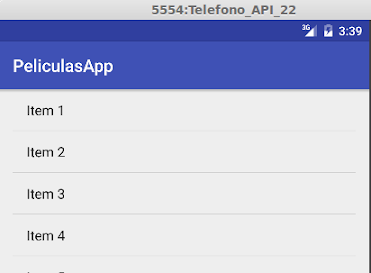
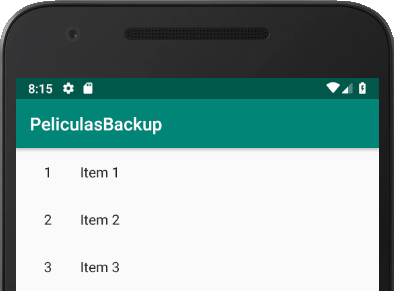
Updating master page

diff --git a/documentation/masterDetailMaster.md b/documentation/masterDetailMaster.md
@@ -39,7 +39,27 @@ De movida podemos ejecutar la aplicación gracias a todo el código [boilerplate
 
 ![peliculas list](../images/peliculasList.png)
 
-La lista se define en la `activity_peliculas_list.xml`:
+Solo hay que corregir un pequeño detalle, en la clase `PeliculaDetailFragment.kt`, dentro del método onCreate:
+
+```kt
+override fun onCreate(savedInstanceState: Bundle?) {
+    super.onCreate(savedInstanceState)
+
+    arguments?.let {
+        if (it.containsKey(ARG_ITEM_ID)) {
+            // así está
+            // item = DummyContent.ITEM_MAP[it.getString(ARG_ITEM_ID)]
+            // así la cambiamos
+            item = DummyContent.ITEM_MAP[it.getString(ARG_ITEM_ID)!!]
+            activity?.toolbar_layout?.title = item?.content
+        }
+    }
+}
+```
+
+Después explicaremos en detalle cómo trabaja la vista.
+
+La lista de ítems se define en la `activity_pelicula_list.xml`:
 
 ```xml
 <android.support.design.widget.CoordinatorLayout ...>
@@ -53,43 +73,64 @@ La lista se define en la `activity_peliculas_list.xml`:
     </FrameLayout>
 ```
 
-_activity_peliculas_list.xml_
+El archivo de include `pelicula_list.xml` contiene un **RecyclerView**:
 
-El layout default es list_content, que tiene una [ListView](https://developer.android.com/guide/topics/ui/layout/listview.html).
-
-¿Dónde se llena la lista de elementos de la ListView? En el Fragment de la lista de películas, que extiende especialmente de ListFragment:
-
-```kt
-class PeliculaListFragment : ListFragment() {
+```xml
+<?xml version="1.0" encoding="utf-8"?>
+<android.support.v7.widget.RecyclerView xmlns:android="http://schemas.android.com/apk/res/android"
+                                        xmlns:app="http://schemas.android.com/apk/res-auto"
+                                        xmlns:tools="http://schemas.android.com/tools"
+                                        android:id="@+id/pelicula_list"
+                                        android:name="com.example.fernando.peliculasbackup.PeliculaListFragment"
+                                        android:layout_width="match_parent"
+                                        android:layout_height="match_parent"
+                                        android:layout_marginLeft="16dp"
+                                        android:layout_marginRight="16dp"
+                                        app:layoutManager="LinearLayoutManager"
+                                        tools:context=".PeliculaListActivity"
+                                        tools:listitem="@layout/pelicula_list_content"/>
 ```
 
-Y específicamente en el método onCreate:
+Como vemos, este container define un **list item** cuyo contenido define una [ListView](https://developer.android.com/guide/topics/ui/layout/listview.html) en un archivo aparte: pelicula_list_content.xml. Sí, demasiadas indirecciones para un simple master/detail.
+
+¿Dónde se llena la lista de elementos de la ListView? En la activity de la lista de películas:
 
 ```kt
-override fun onCreate(savedInstanceState: Bundle) {
-    val peliculas = RepoPeliculas.instance.getPeliculas(null, 10)
-    super.onCreate(savedInstanceState)
-    listAdapter = new ArrayAdapter<DummyContent.DummyItem>(
-        getActivity(),
-        android.R.layout.simple_list_item_activated_1,
-        android.R.id.text1,
-        DummyContent.ITEMS)
+class PeliculaListActivity : AppCompatActivity() {
+```
+
+Y específicamente en el método onCreate, se llama al método setupRecyclerView que configura nuestro container donde se encuentra la list view antes mencionada:
+
+```kt
+private fun setupRecyclerView(recyclerView: RecyclerView) {
+    recyclerView.adapter = SimpleItemRecyclerViewAdapter(this, DummyContent.ITEMS, twoPane)
 }
 ```
+
+La clase SimpleItemRecyclerViewAdapter será la encargada de responder ante eventos de usuario como el click que permitirá navegar hacia la vista de detalle.
 
 Reemplazamos entonces DummyContents.ITEMS por una lista de películas de un Repositorio creado para la ocasión:
 
 ```kt
-override fun onCreate(savedInstanceState: Bundle) {
-    val peliculas = RepoPeliculas.instance.getPeliculas(null, 10)
-    super.onCreate(savedInstanceState)
-    listAdapter = PeliculaAdapter(
-            activity as Context,
-            peliculas)
+private fun setupRecyclerView(recyclerView: RecyclerView) {
+    recyclerView.adapter = SimpleItemRecyclerViewAdapter(this, RepoPeliculas.getPeliculas(null, 10), twoPane)
 }
 ```
 
-En esta versión muy sencilla, cada línea muestra el toString() redefinido en película:
+Esto requiere modificar también la clase SimpleItemRecyclerViewAdapter, para guardar una lista de películas, y los valores asociados en la list view (id y título):
+
+```kt
+class SimpleItemRecyclerViewAdapter(
+    private val parentActivity: PeliculaListActivity,
+    private val values: List<Pelicula>,   // <-- cambiamos el tipo de List<DummyContent.DummyItem>
+
+    ...
+
+    override fun onBindViewHolder(holder: ViewHolder, position: Int) {
+        val item = values[position]
+        holder.idView.text = item.id.toString()   // el id como String
+        holder.contentView.text = item.titulo     // el título de la película o lo que deseemos
+```
 
 ![images](../images/peliculasList2.png)
 
